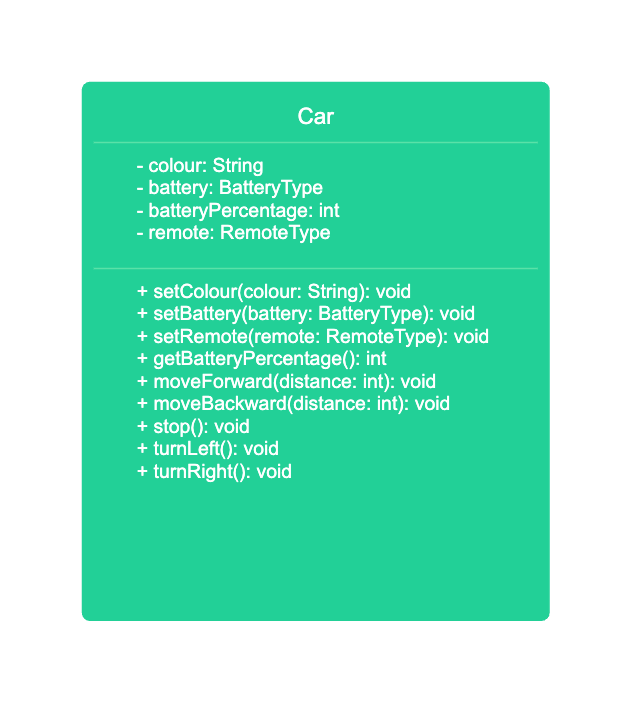
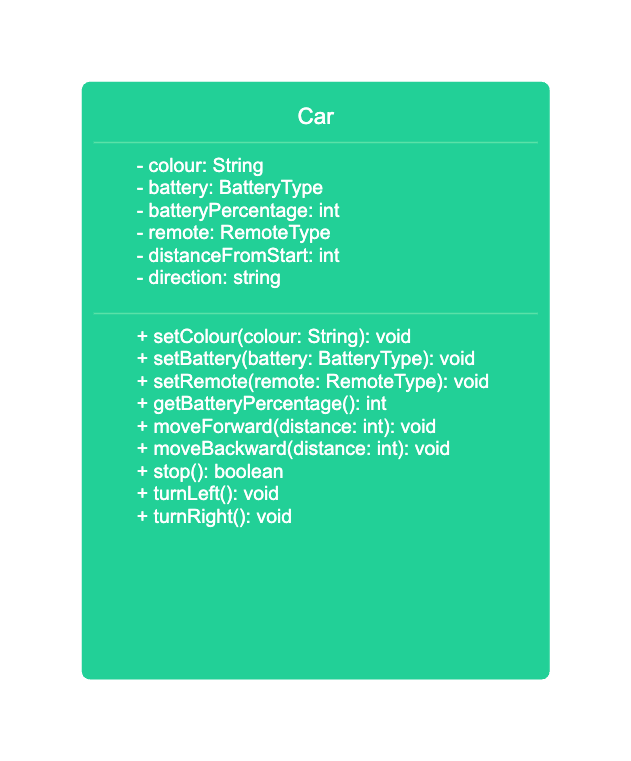
Code red

Changed region(s): [[0.2108, 0.1795, 0.7829, 0.688], [0.1204, 0.0897, 0.8732, 0.1795], [0.1204, 0.8675, 0.8732, 0.8974]]

diff --git a/src/test/java/com/booleanuk/core/CarTest.java b/src/test/java/com/booleanuk/core/CarTest.java
@@ -1,0 +1,72 @@
+package com.booleanuk.core;
+
+import org.junit.jupiter.api.Assertions;
+import org.junit.jupiter.api.BeforeEach;
+import org.junit.jupiter.api.Test;
+
+public class CarTest {
+    Car car;
+
+    @BeforeEach
+    car = new Car("blue", BatteryType.RECHARGABLE, 50, RemoteType.SIMPLE);
+
+    @Test
+    public void setColourTest(){
+        car.setColour("red");
+        Assertions.assertEquals("red", car.getColour());
+    }
+
+    @Test
+    public void setBatteryTest(){
+        car.setBattery(BatteryType.DISPOSABLE);
+        Assertions.assertEquals(BatteryType.DISPOSABLE, car.getBattery());
+    }
+
+    @Test
+    public void setRemoteTest(){
+        car.setRemote(RemoteType.ADVANCED);
+        Assertions.assertEquals(RemoteType.ADVANCED, car.getRemote());
+    }
+
+    @Test
+    public void getBatteryPercentageTest(){
+        Assertions.assertEquals(50, car.getBatteryPercentage());
+    }
+
+    @Test
+    public void moveForwardTest(){
+        car.moveForward(5);
+        Assertions.assertEquals(5, car.getDistance());
+    }
+
+    @Test
+    public void moveBackwardTest(){
+        car.moveBackward(5);
+        Assertions.assertEquals(5, car.getDistance());
+    }
+
+    @Test
+    public void moveRandomlyTest(){
+        car.moveBackward(5);
+        car.moveForward(3);
+        car.moveBackward(10);
+        Assertions.assertEquals(18, car.getDistance());
+    }
+
+    @Test
+    public void stopTest(){
+        Assertions.assertEquals(true, car.stop());
+    }
+
+    @Test
+    public void turnLeftTest(){
+        car.turnLeft();
+        Assertions.assertEquals("Left", car.getDirection());
+    }
+
+    @Test
+    public void turnRightTest(){
+        car.turnRight();
+        Assertions.assertEquals("Right", car.getDirection());
+    }
+}

diff --git a/src/main/java/com/booleanuk/core/BatteryType.java b/src/main/java/com/booleanuk/core/BatteryType.java
@@ -1,0 +1,6 @@
+package com.booleanuk.core;
+
+public enum BatteryType {
+    RECHARGABLE,
+    DISPOSABLE
+}

diff --git a/src/main/java/com/booleanuk/core/RemoteType.java b/src/main/java/com/booleanuk/core/RemoteType.java
@@ -1,0 +1,6 @@
+package com.booleanuk.core;
+
+public enum RemoteType {
+    SIMPLE,
+    ADVANCED
+}

diff --git a/src/main/java/com/booleanuk/core/Car.java b/src/main/java/com/booleanuk/core/Car.java
@@ -1,0 +1,4 @@
+package com.booleanuk.core;
+
+public class Car {
+}
